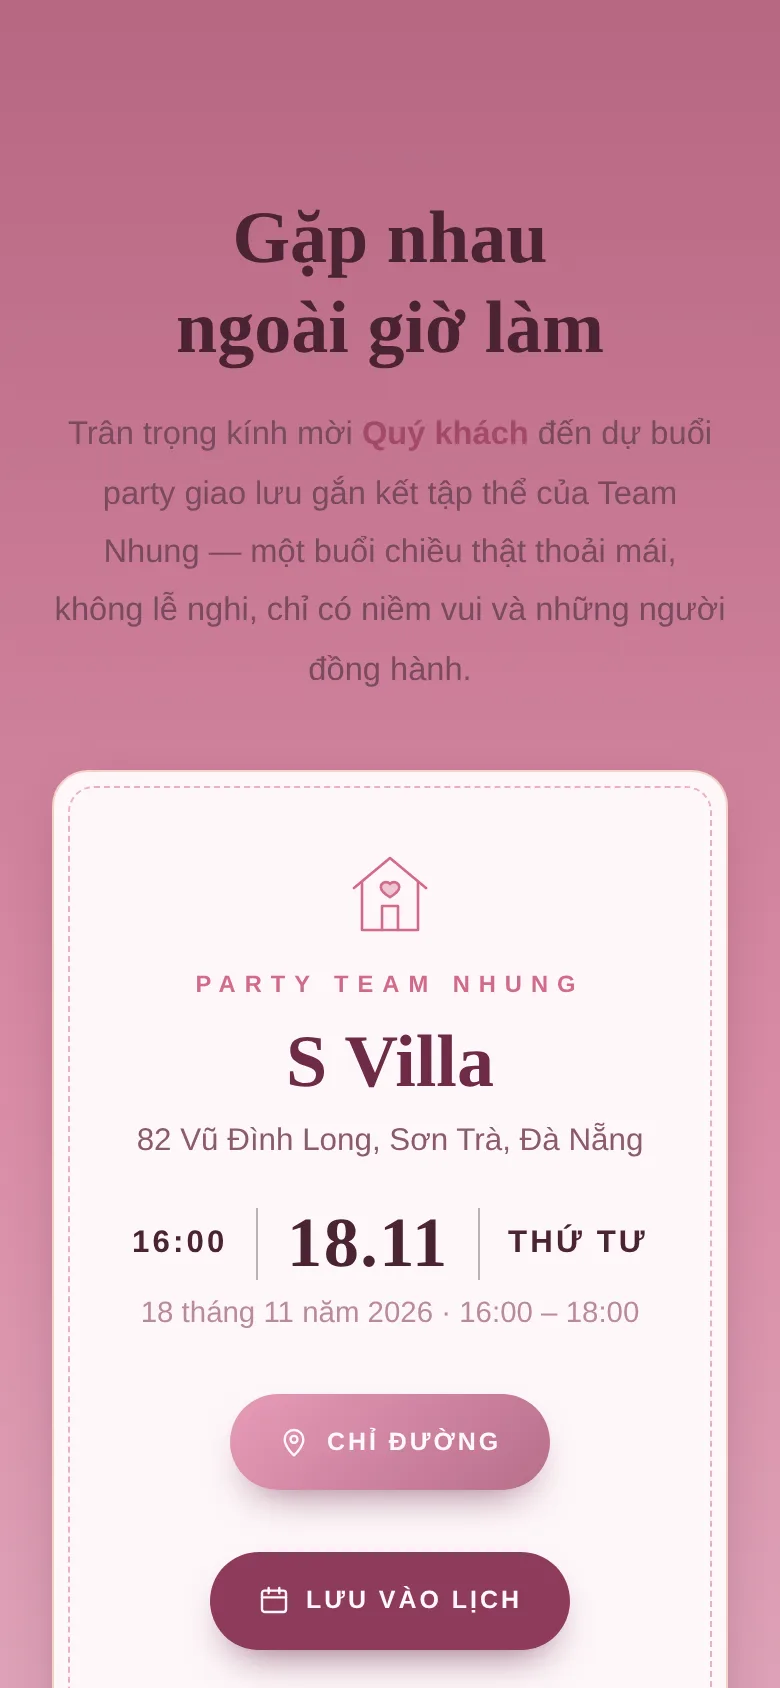
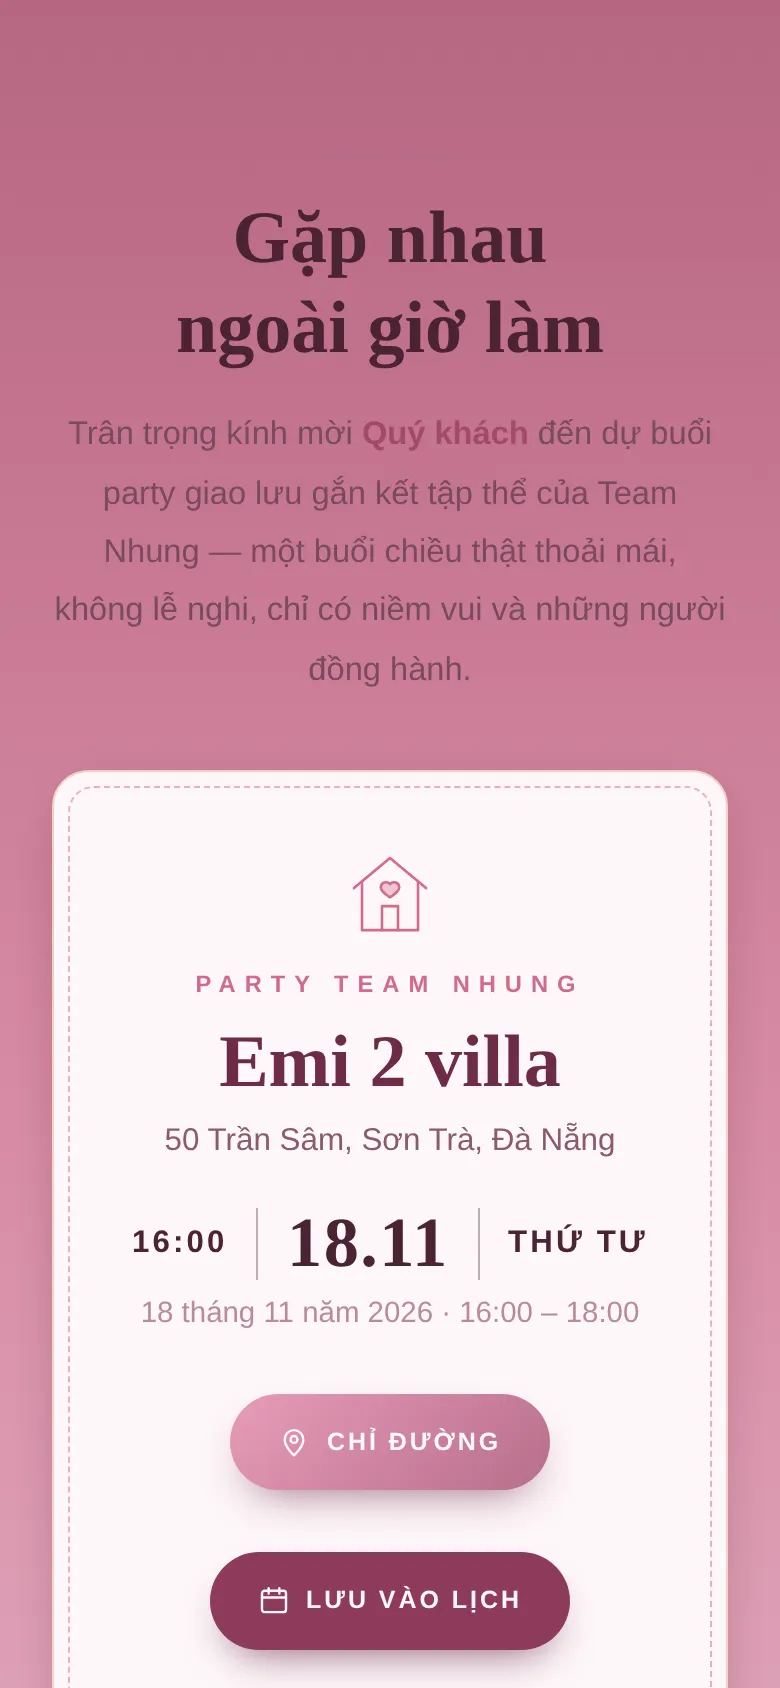
354: doi dia diem S Villa -> Emi 2 villa (50 Tran Sam); dung lai og-cover + shots; tang ?v=5

Changed region(s): [[0.1846, 0.6161, 0.8, 0.7085]]

diff --git a/products/Invitation/Other/gen_354_party-team-nhung-hoang-hon-chrome/index.html b/products/Invitation/Other/gen_354_party-team-nhung-hoang-hon-chrome/index.html
@@ -4,19 +4,19 @@
 <meta charset="UTF-8">
 <meta name="viewport" content="width=device-width, initial-scale=1.0">
 <title>Party Team Nhung — Giao lưu gắn kết tập thể</title>
-<meta name="description" content="Trân trọng kính mời Quý khách đến dự Party Team Nhung (Simba Beer Club) — buổi giao lưu gắn kết tập thể, 16:00 Thứ Tư 18/11/2026 tại S Villa, 82 Vũ Đình Long, Sơn Trà, Đà Nẵng.">
+<meta name="description" content="Trân trọng kính mời Quý khách đến dự Party Team Nhung (Simba Beer Club) — buổi giao lưu gắn kết tập thể, 16:00 Thứ Tư 18/11/2026 tại Emi 2 villa - 50 Trần Sâm, Sơn Trà, Đà Nẵng.">
 <meta name="theme-color" content="#8e3a5c">
 <meta property="og:type" content="website">
 <meta property="og:site_name" content="Templexa">
 <meta property="og:title" content="Party Team Nhung — Giao lưu gắn kết tập thể">
-<meta property="og:description" content="Trân trọng kính mời Quý khách đến dự Party Team Nhung (Simba Beer Club) — 16:00 Thứ Tư 18/11/2026 tại S Villa, 82 Vũ Đình Long, Sơn Trà, Đà Nẵng.">
-<meta property="og:image" content="./og-cover.jpg">
+<meta property="og:description" content="Trân trọng kính mời Quý khách đến dự Party Team Nhung (Simba Beer Club) — 16:00 Thứ Tư 18/11/2026 tại Emi 2 villa - 50 Trần Sâm, Sơn Trà, Đà Nẵng.">
+<meta property="og:image" content="./og-cover.jpg?v=5">
 <meta property="og:image:width" content="1200">
 <meta property="og:image:height" content="630">
 <link rel="preconnect" href="https://fonts.googleapis.com">
 <link rel="preconnect" href="https://fonts.gstatic.com" crossorigin>
 <link href="https://fonts.googleapis.com/css2?family=Be+Vietnam+Pro:ital,wght@0,400;0,500;0,600;0,700;0,800;0,900;1,400;1,600&family=Playfair+Display:ital,wght@0,500;0,600;0,700;0,800;0,900;1,500;1,600;1,700&family=Quicksand:wght@400;500;600;700&display=swap" rel="stylesheet">
-<link rel="stylesheet" href="style.css?v=4">
+<link rel="stylesheet" href="style.css?v=5">
 </head>
 <body>
 
@@ -50,7 +50,7 @@
 <!-- ============ HERO ============ -->
 <section class="hero" id="hero">
   <span class="hero-float f1">Giao lưu · Gắn kết</span>
-  <span class="hero-float f2">S Villa · Đà Nẵng</span>
+  <span class="hero-float f2">Emi 2 villa · Đà Nẵng</span>
   <div class="medallion hi" style="--d:.1s"><img src="images/lion-emblem.png" alt="Sư tử đội vương miện"></div>
   <div class="hero-brand hi" style="--d:.18s">
     <p class="hero-simba chrome-text">SIMBA</p>
@@ -61,7 +61,7 @@
   <h1 class="hero-title chrome-text hi" style="--d:.4s">PARTY<br>TEAM NHUNG</h1>
   <p class="hero-sub hi" style="--d:.55s">Một buổi chiều gặp nhau ngoài giờ làm —<br>cùng chơi, cùng cười, hiểu nhau hơn.</p>
   <div class="hero-date hi" style="--d:.7s"><span>Thứ Tư</span><b>18.11.2026</b><span>16:00</span></div>
-  <p class="hero-place hi" style="--d:.85s">S Villa · 82 Vũ Đình Long, Sơn Trà, Đà Nẵng</p>
+  <p class="hero-place hi" style="--d:.85s">Emi 2 villa · 50 Trần Sâm, Sơn Trà, Đà Nẵng</p>
   <div class="hero-scroll hi" style="--d:1s" aria-hidden="true"></div>
 </section>
 
@@ -73,15 +73,15 @@
   <article class="ev rv">
     <div class="ev-icon"><svg viewBox="0 0 48 48" fill="none" stroke="currentColor" stroke-width="1.3" stroke-linecap="round" stroke-linejoin="round"><path d="M6 22L24 7l18 15"/><path d="M10 19v24h28V19"/><path d="M20 43V31h8v12"/><path d="M24 20c-1.6-1.8-4.6-.8-4.6 1.6 0 2.2 4.6 5 4.6 5s4.6-2.8 4.6-5c0-2.4-3-3.4-4.6-1.6z" fill="currentColor" fill-opacity=".35"/></svg></div>
     <h3>Party Team Nhung</h3>
-    <p class="place">S Villa</p>
-    <p class="addr">82 Vũ Đình Long, Sơn Trà, Đà Nẵng</p>
+    <p class="place">Emi 2 villa</p>
+    <p class="addr">50 Trần Sâm, Sơn Trà, Đà Nẵng</p>
     <div class="ev-when"><span class="t">16:00</span><span class="sep"></span><span class="dd">18.11</span><span class="sep"></span><span class="t">Thứ Tư</span></div>
     <p class="lunar">18 tháng 11 năm 2026 · 16:00 – 18:00</p>
     <div class="ev-btns">
-      <a class="btn" href="https://www.google.com/maps/search/?api=1&amp;query=S%20Villa%2C%2082%20V%C5%A9%20%C4%90%C3%ACnh%20Long%2C%20S%C6%A1n%20Tr%C3%A0%2C%20%C4%90%C3%A0%20N%E1%BA%B5ng" target="_blank" rel="noopener"><svg viewBox="0 0 24 24" fill="none" stroke="currentColor" stroke-width="1.8" stroke-linecap="round" stroke-linejoin="round"><path d="M12 22s7-6.2 7-12a7 7 0 1 0-14 0c0 5.8 7 12 7 12z"/><circle cx="12" cy="10" r="2.6"/></svg> Chỉ đường</a>
-      <a class="btn btn-light" href="https://calendar.google.com/calendar/render?action=TEMPLATE&amp;text=Party%20Team%20Nhung%20%E2%80%93%20Giao%20l%C6%B0u%20g%E1%BA%AFn%20k%E1%BA%BFt%20t%E1%BA%ADp%20th%E1%BB%83&amp;dates=20261118T160000/20261118T180000&amp;ctz=Asia/Ho_Chi_Minh&amp;location=S%20Villa%2C%2082%20V%C5%A9%20%C4%90%C3%ACnh%20Long%2C%20S%C6%A1n%20Tr%C3%A0%2C%20%C4%90%C3%A0%20N%E1%BA%B5ng" target="_blank" rel="noopener"><svg viewBox="0 0 24 24" fill="none" stroke="currentColor" stroke-width="1.8" stroke-linecap="round"><rect x="3" y="5" width="18" height="16" rx="2"/><path d="M3 10h18M8 3v4M16 3v4"/></svg> Lưu vào lịch</a>
+      <a class="btn" href="https://www.google.com/maps/search/?api=1&amp;query=Emi%202%20villa%2C%2050%20Tr%E1%BA%A7n%20S%C3%A2m%2C%20S%C6%A1n%20Tr%C3%A0%2C%20%C4%90%C3%A0%20N%E1%BA%B5ng" target="_blank" rel="noopener"><svg viewBox="0 0 24 24" fill="none" stroke="currentColor" stroke-width="1.8" stroke-linecap="round" stroke-linejoin="round"><path d="M12 22s7-6.2 7-12a7 7 0 1 0-14 0c0 5.8 7 12 7 12z"/><circle cx="12" cy="10" r="2.6"/></svg> Chỉ đường</a>
+      <a class="btn btn-light" href="https://calendar.google.com/calendar/render?action=TEMPLATE&amp;text=Party%20Team%20Nhung%20%E2%80%93%20Giao%20l%C6%B0u%20g%E1%BA%AFn%20k%E1%BA%BFt%20t%E1%BA%ADp%20th%E1%BB%83&amp;dates=20261118T160000/20261118T180000&amp;ctz=Asia/Ho_Chi_Minh&amp;location=Emi%202%20villa%2C%2050%20Tr%E1%BA%A7n%20S%C3%A2m%2C%20S%C6%A1n%20Tr%C3%A0%2C%20%C4%90%C3%A0%20N%E1%BA%B5ng" target="_blank" rel="noopener"><svg viewBox="0 0 24 24" fill="none" stroke="currentColor" stroke-width="1.8" stroke-linecap="round"><rect x="3" y="5" width="18" height="16" rx="2"/><path d="M3 10h18M8 3v4M16 3v4"/></svg> Lưu vào lịch</a>
     </div>
-    <div class="map-frame"><iframe src="https://www.google.com/maps?q=S%20Villa%2C%2082%20V%C5%A9%20%C4%90%C3%ACnh%20Long%2C%20S%C6%A1n%20Tr%C3%A0%2C%20%C4%90%C3%A0%20N%E1%BA%B5ng&amp;output=embed" loading="lazy" referrerpolicy="no-referrer-when-downgrade" title="Bản đồ S Villa"></iframe></div>
+    <div class="map-frame"><iframe src="https://www.google.com/maps?q=Emi%202%20villa%2C%2050%20Tr%E1%BA%A7n%20S%C3%A2m%2C%20S%C6%A1n%20Tr%C3%A0%2C%20%C4%90%C3%A0%20N%E1%BA%B5ng&amp;output=embed" loading="lazy" referrerpolicy="no-referrer-when-downgrade" title="Bản đồ Emi 2 villa"></iframe></div>
   </article>
 </section>
 
@@ -90,14 +90,14 @@
   <p class="label rv">Save The Date</p>
   <h2 class="title rv">Hẹn nhau<br>chiều thứ Tư</h2>
   <div class="cal rv-scale" id="calendar"></div>
-  <p class="cal-note rv">Thứ Tư · 18.11.2026 · 16:00<br>S Villa, Sơn Trà, Đà Nẵng</p>
+  <p class="cal-note rv">Thứ Tư · 18.11.2026 · 16:00<br>Emi 2 villa, Sơn Trà, Đà Nẵng</p>
   <div class="countdown" data-stagger=".12">
     <div class="cd-box rv"><b id="cdD">00</b><span>NGÀY</span></div>
     <div class="cd-box rv"><b id="cdH">00</b><span>GIỜ</span></div>
     <div class="cd-box rv"><b id="cdM">00</b><span>PHÚT</span></div>
     <div class="cd-box rv"><b id="cdS">00</b><span>GIÂY</span></div>
   </div>
-  <a class="btn btn-light rv" href="https://calendar.google.com/calendar/render?action=TEMPLATE&amp;text=Party%20Team%20Nhung%20%E2%80%93%20Giao%20l%C6%B0u%20g%E1%BA%AFn%20k%E1%BA%BFt%20t%E1%BA%ADp%20th%E1%BB%83&amp;dates=20261118T160000/20261118T180000&amp;ctz=Asia/Ho_Chi_Minh&amp;location=S%20Villa%2C%2082%20V%C5%A9%20%C4%90%C3%ACnh%20Long%2C%20S%C6%A1n%20Tr%C3%A0%2C%20%C4%90%C3%A0%20N%E1%BA%B5ng" target="_blank" rel="noopener"><svg viewBox="0 0 24 24" fill="none" stroke="currentColor" stroke-width="1.8" stroke-linecap="round"><rect x="3" y="5" width="18" height="16" rx="2"/><path d="M3 10h18M8 3v4M16 3v4"/></svg> Lưu vào lịch</a>
+  <a class="btn btn-light rv" href="https://calendar.google.com/calendar/render?action=TEMPLATE&amp;text=Party%20Team%20Nhung%20%E2%80%93%20Giao%20l%C6%B0u%20g%E1%BA%AFn%20k%E1%BA%BFt%20t%E1%BA%ADp%20th%E1%BB%83&amp;dates=20261118T160000/20261118T180000&amp;ctz=Asia/Ho_Chi_Minh&amp;location=Emi%202%20villa%2C%2050%20Tr%E1%BA%A7n%20S%C3%A2m%2C%20S%C6%A1n%20Tr%C3%A0%2C%20%C4%90%C3%A0%20N%E1%BA%B5ng" target="_blank" rel="noopener"><svg viewBox="0 0 24 24" fill="none" stroke="currentColor" stroke-width="1.8" stroke-linecap="round"><rect x="3" y="5" width="18" height="16" rx="2"/><path d="M3 10h18M8 3v4M16 3v4"/></svg> Lưu vào lịch</a>
 </section>
 
 <!-- ============ CÂU CHUYỆN ============ -->
@@ -182,7 +182,7 @@
     <div class="medallion medallion-sm rv"><img src="images/lion-emblem.png" alt="Sư tử đội vương miện"></div>
     <p class="closing-club rv">SIMBA BEER CLUB</p>
     <p class="label rv">Hẹn gặp bạn</p>
-    <p class="names rv">Hẹn gặp bạn tại S Villa</p>
+    <p class="names rv">Hẹn gặp bạn tại Emi 2 villa</p>
     <p class="msg rv">16:00 · Thứ Tư 18.11.2026 — mang theo nụ cười và tinh thần chơi hết mình nhé!</p>
     <a class="closing-brand" href="https://templexa.vn" target="_blank" rel="noopener">Made with ♥ by Templexa · <b>templexa.vn</b></a>
   </div>
@@ -200,7 +200,7 @@
     guests: {}
   };
 </script>
-<script src="../../../shared/wedding/wishes-api.js?v=4"></script>
-<script src="app.js?v=4"></script>
+<script src="../../../shared/wedding/wishes-api.js?v=5"></script>
+<script src="app.js?v=5"></script>
 </body>
 </html>

diff --git a/assets/js/data.js b/assets/js/data.js
@@ -7428,7 +7428,7 @@ const PRODUCTS = [
         id: 354,
         name: 'Thiệp Party Team Nhung — Hồng Pastel Simba',
         slug: 'thiep-party-team-nhung-hoang-hon-chrome',
-        description: 'Thiệp mời party giao lưu gắn kết tập thể Team Nhung (Simba Beer Club): phong bì lockup SIMBA BEER CLUB với sư tử đội vương miện, nền hồng pastel, chữ chrome hồng ánh kim, đếm ngược + lịch tháng 11, câu chuyện 3 chương Gặp gỡ – Đồng hành – Gắn kết, chương trình dự kiến, form xác nhận tham dự chép tay gửi lại ban tổ chức. 16:00 Thứ Tư 18/11/2026 tại S Villa, Đà Nẵng.',
+        description: 'Thiệp mời party giao lưu gắn kết tập thể Team Nhung (Simba Beer Club): phong bì lockup SIMBA BEER CLUB với sư tử đội vương miện, nền hồng pastel, chữ chrome hồng ánh kim, đếm ngược + lịch tháng 11, câu chuyện 3 chương Gặp gỡ – Đồng hành – Gắn kết, chương trình dự kiến, form xác nhận tham dự chép tay gửi lại ban tổ chức. 16:00 Thứ Tư 18/11/2026 tại Emi 2 villa, Đà Nẵng.',
         category: 'other',
         type: 'invitation',
         style: 'luxury',
@@ -7443,7 +7443,7 @@ const PRODUCTS = [
         thumbnail: './products/Invitation/Other/gen_354_party-team-nhung-hoang-hon-chrome/og-cover.jpg',
         mobileView: './products/Invitation/Other/gen_354_party-team-nhung-hoang-hon-chrome/shots/open.webp',
         path: './products/Invitation/Other/gen_354_party-team-nhung-hoang-hon-chrome/',
-        demoUrl: './products/Invitation/Other/gen_354_party-team-nhung-hoang-hon-chrome/index.html?v=4',
+        demoUrl: './products/Invitation/Other/gen_354_party-team-nhung-hoang-hon-chrome/index.html?v=5',
         variants: [],
         features: [
             'Phong bì lockup SIMBA BEER CLUB với sư tử đội vương miện, nền hồng pastel với chữ chrome hồng ánh kim',

diff --git a/products/Invitation/Other/gen_354_party-team-nhung-hoang-hon-chrome/og-cover.html b/products/Invitation/Other/gen_354_party-team-nhung-hoang-hon-chrome/og-cover.html
@@ -84,7 +84,7 @@
     <p class="label">Party · Giao lưu · Gắn kết tập thể</p>
     <h1>PARTY<br>TEAM NHUNG</h1>
     <p class="sub">Một buổi chiều gặp nhau ngoài giờ làm —<br>cùng chơi, cùng cười, hiểu nhau hơn.</p>
-    <p class="date">16:00 · Thứ Tư 18.11.2026 · S Villa, Đà Nẵng</p>
+    <p class="date">16:00 · Thứ Tư 18.11.2026 · Emi 2 villa, Đà Nẵng</p>
   </div>
   <div class="brand">templexa.vn</div>
 </div>
